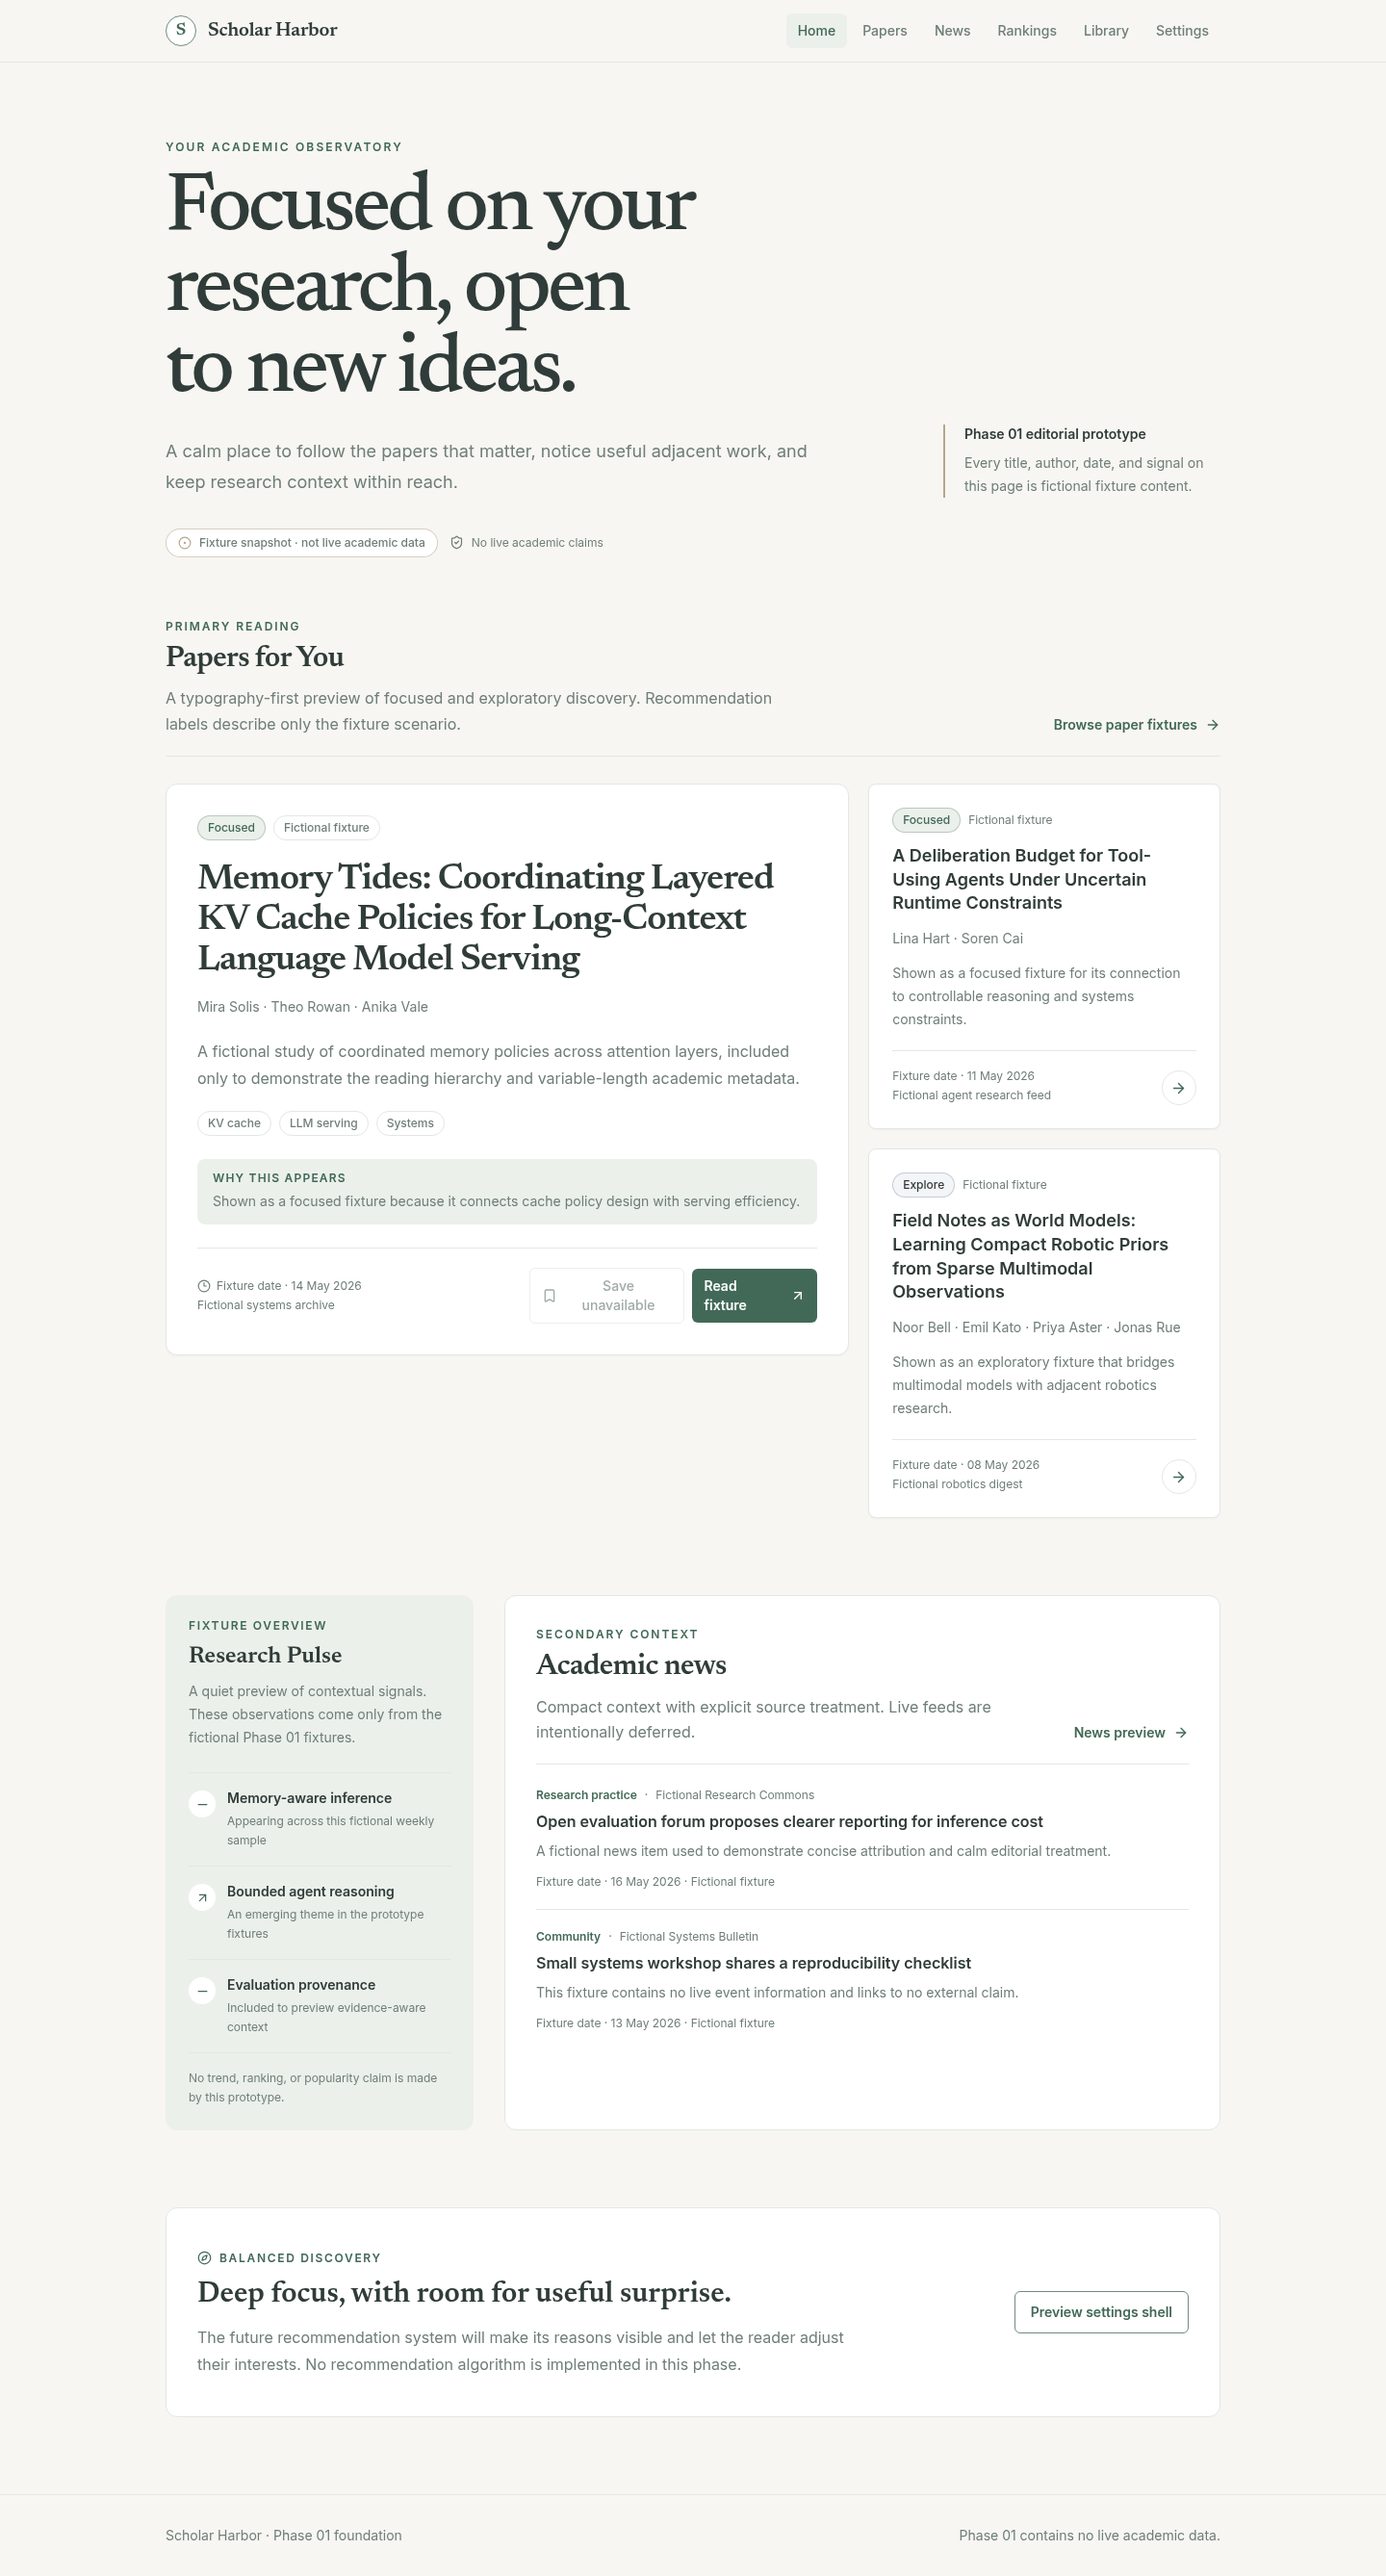
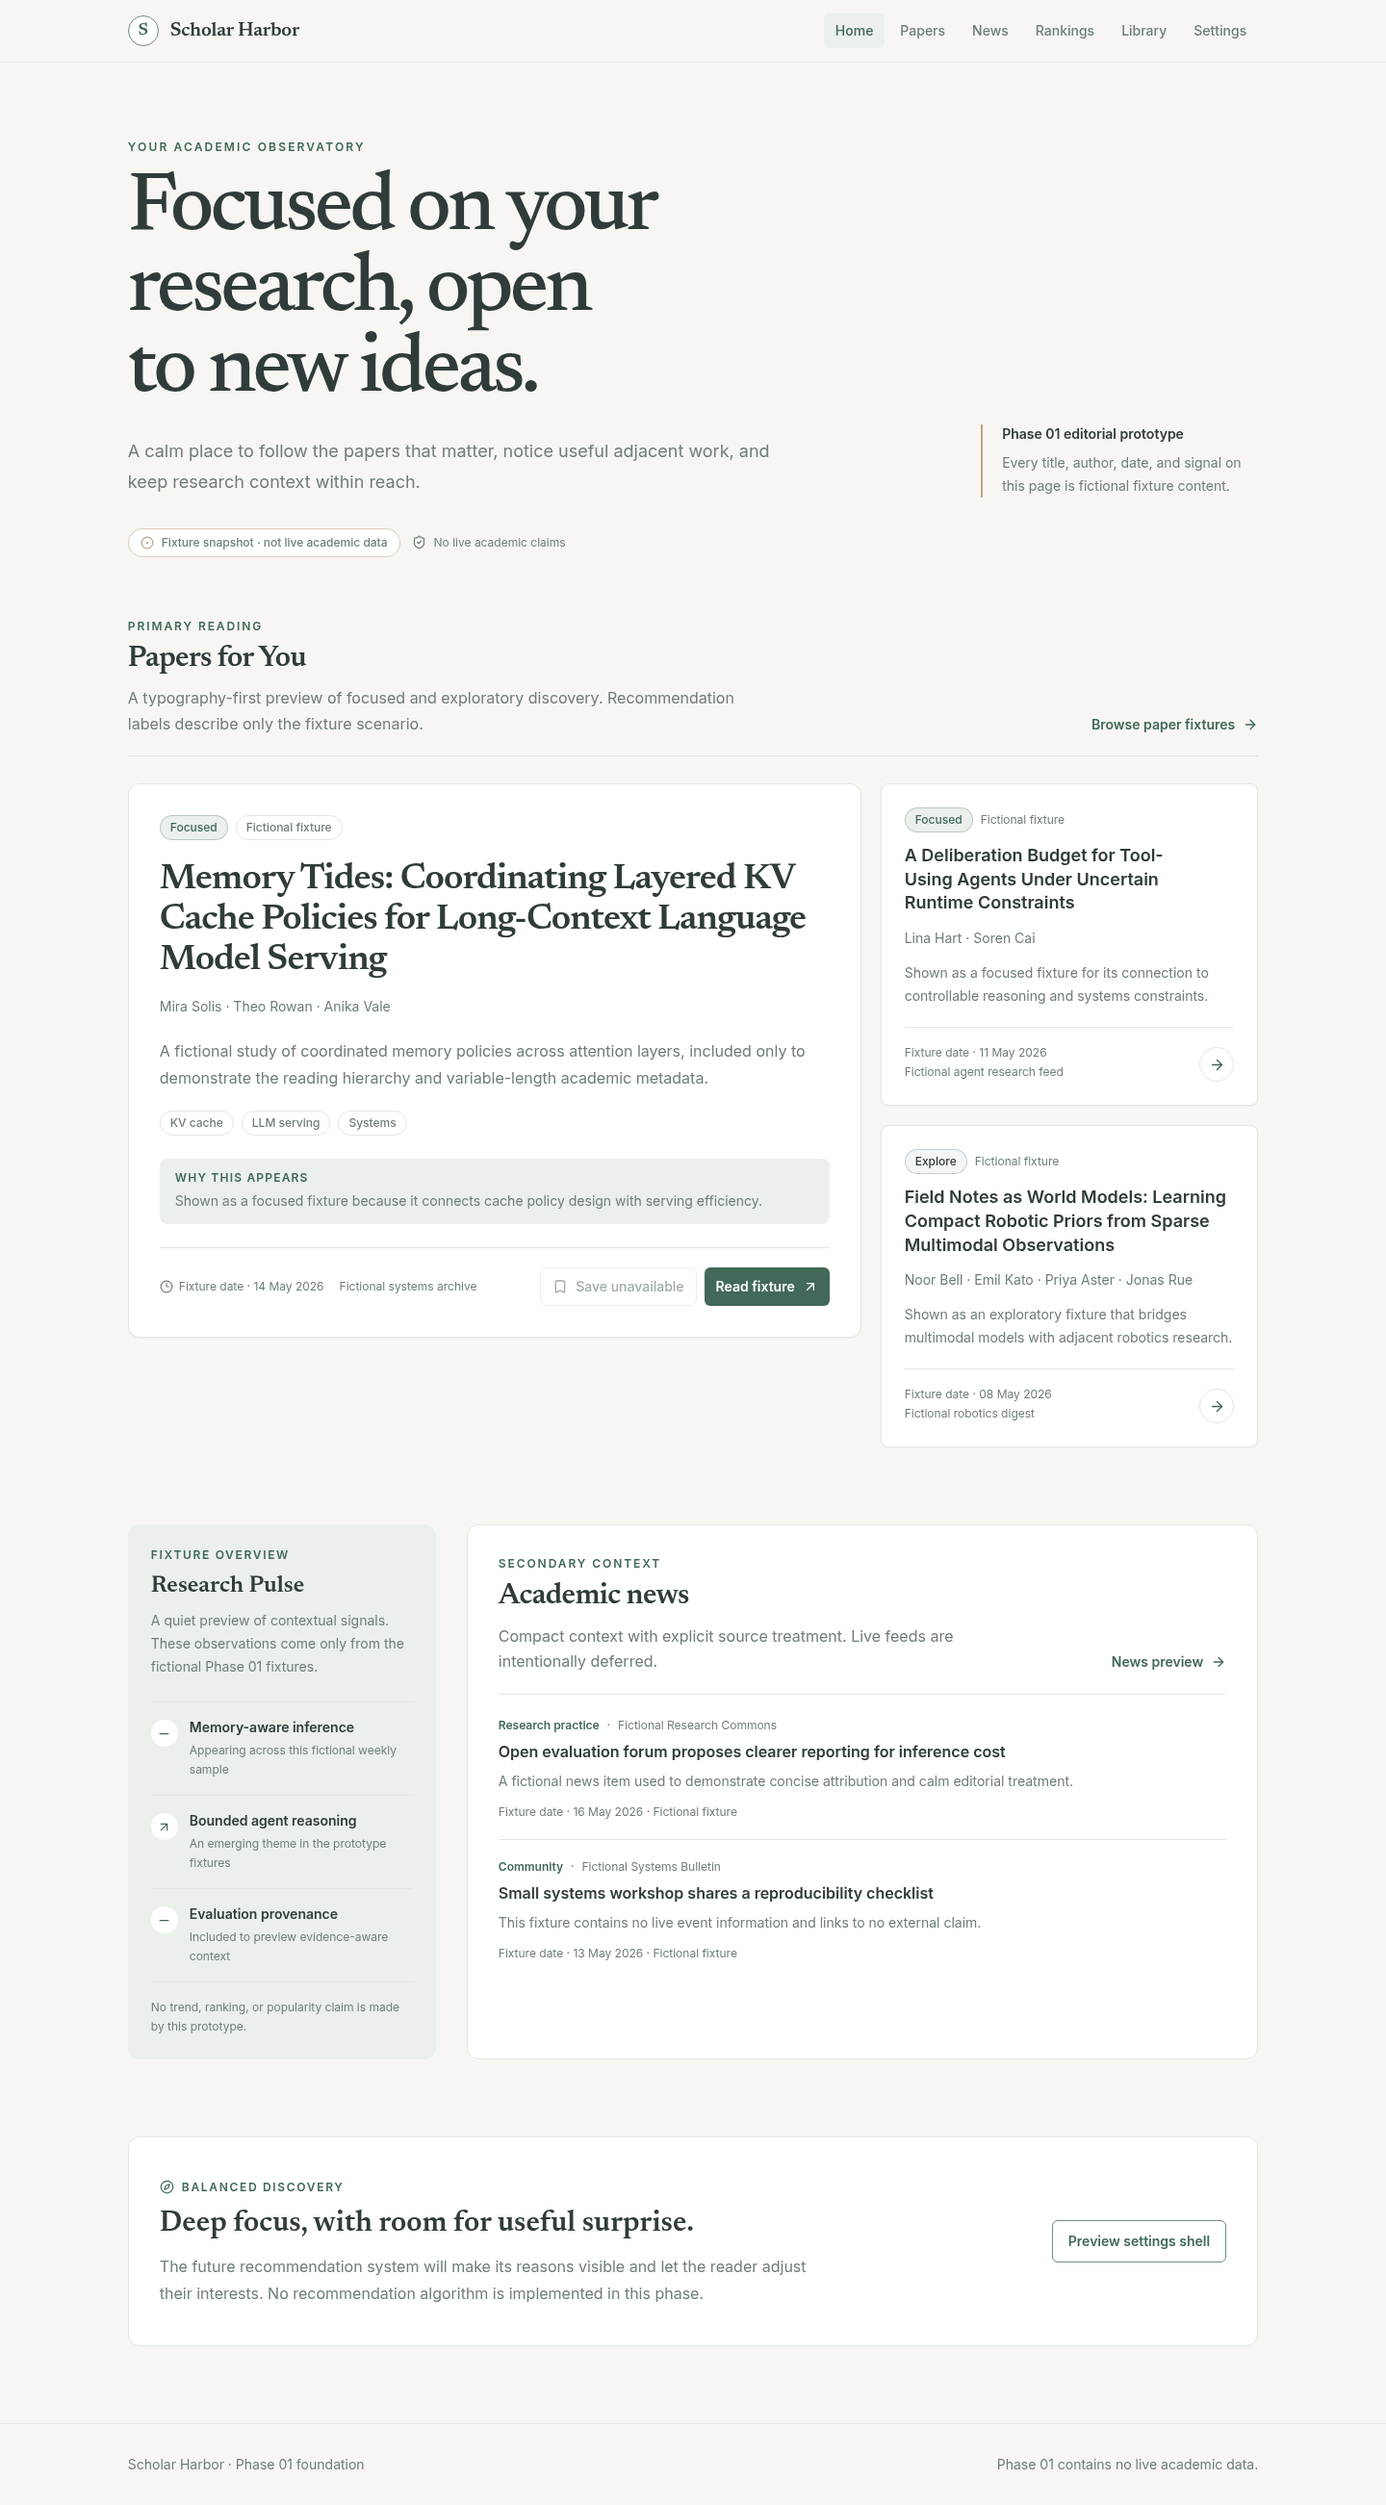
feat: adapt phase 01 layout for ultra-wide displays

diff --git a/e2e/foundation.spec.ts b/e2e/foundation.spec.ts
@@ -5,10 +5,14 @@ const viewports = [
   { name: 'tablet', width: 768, height: 1024 },
   { name: 'desktop', width: 1280, height: 900 },
   { name: 'wide', width: 1440, height: 1000 },
+  { name: 'qhd', width: 2560, height: 1440 },
+  { name: 'qhd-tall', width: 2560, height: 1600 },
 ] as const
 
 for (const viewport of viewports) {
-  test(`homepage is readable at ${viewport.width}px`, async ({ page }) => {
+  test(`homepage is readable at ${viewport.width}×${viewport.height}px`, async ({
+    page,
+  }) => {
     await page.setViewportSize(viewport)
     await page.goto('/')
 
@@ -39,10 +43,35 @@ for (const viewport of viewports) {
     expect(titleBox).not.toBeNull()
     expect(titleBox!.x + titleBox!.width).toBeLessThanOrEqual(viewport.width)
 
-    if (viewport.name === 'mobile' || viewport.name === 'wide') {
+    if (viewport.width >= 2560) {
+      const wideContainer = page.locator('[data-page-container]').nth(1)
+      const containerBox = await wideContainer.boundingBox()
+      expect(containerBox).not.toBeNull()
+      expect(containerBox!.width).toBeGreaterThanOrEqual(2150)
+
+      const compactGridColumns = await page
+        .locator('[data-home-compact-grid]')
+        .evaluate(
+          (element) =>
+            getComputedStyle(element).gridTemplateColumns.split(' ').length,
+        )
+      expect(compactGridColumns).toBe(2)
+    }
+
+    if (
+      viewport.name === 'mobile' ||
+      viewport.name === 'wide' ||
+      viewport.name === 'qhd'
+    ) {
+      const screenshotName =
+        viewport.name === 'mobile'
+          ? 'home-375.png'
+          : viewport.name === 'wide'
+            ? 'home-1440.png'
+            : 'home-2560x1440.png'
       await page.screenshot({
         fullPage: true,
-        path: `artifacts/phase-01/home-${viewport.width}.png`,
+        path: `artifacts/phase-01/${screenshotName}`,
       })
     }
   })
@@ -70,6 +99,11 @@ test('all required routes render in the browser', async ({ page }) => {
 test('keyboard focus and mobile navigation are usable', async ({ page }) => {
   await page.setViewportSize({ width: 375, height: 812 })
   await page.goto('/')
+  await expect(
+    page.getByRole('heading', {
+      name: 'Focused on your research, open to new ideas.',
+    }),
+  ).toBeVisible()
 
   await page.keyboard.press('Tab')
   await expect(

diff --git a/src/pages/HomePage.tsx b/src/pages/HomePage.tsx
@@ -22,8 +22,8 @@ export function HomePage() {
   return (
     <>
       <PageContainer className="pb-12 pt-12 sm:pt-16 lg:pb-16 lg:pt-20">
-        <div className="grid gap-9 lg:grid-cols-[minmax(0,1fr)_18rem] lg:items-end">
-          <div className="min-w-0 max-w-3xl">
+        <div className="home-hero-grid grid gap-9 lg:grid-cols-[minmax(0,1fr)_18rem] lg:items-end">
+          <div className="home-hero-copy min-w-0 max-w-3xl">
             <p className="mb-4 text-xs font-semibold tracking-[0.18em] text-action uppercase">
               Your academic observatory
             </p>
@@ -77,9 +77,12 @@ export function HomePage() {
             titleId="papers-for-you-title"
           />
 
-          <div className="mt-7 grid min-w-0 gap-5 lg:grid-cols-[minmax(0,1.65fr)_minmax(16rem,0.85fr)] lg:items-start">
+          <div className="home-paper-grid mt-7 grid min-w-0 gap-5 lg:grid-cols-[minmax(0,1.65fr)_minmax(16rem,0.85fr)] lg:items-start">
             <FeaturedPaperCard paper={featuredPaper} />
-            <div className="grid min-w-0 gap-5 sm:grid-cols-2 lg:grid-cols-1">
+            <div
+              className="home-compact-grid grid min-w-0 gap-5 sm:grid-cols-2 lg:grid-cols-1"
+              data-home-compact-grid=""
+            >
               {compactPapers.map((paper) => (
                 <CompactPaperCard key={paper.id} paper={paper} />
               ))}
@@ -89,7 +92,7 @@ export function HomePage() {
 
         <section
           aria-label="Research context"
-          className="grid gap-8 lg:grid-cols-[20rem_minmax(0,1fr)]"
+          className="home-context-grid grid gap-8 lg:grid-cols-[20rem_minmax(0,1fr)]"
         >
           <ResearchPulsePanel items={fixturePulse} />
 

diff --git a/src/styles/global.css b/src/styles/global.css
@@ -107,3 +107,29 @@
     animation-iteration-count: 1 !important;
   }
 }
+
+@media (min-width: 120rem) {
+  .page-container {
+    padding-inline: 2.5rem;
+  }
+
+  .home-hero-grid {
+    grid-template-columns: minmax(0, 1.4fr) minmax(20rem, 0.6fr);
+  }
+
+  .home-hero-copy {
+    max-width: 64rem;
+  }
+
+  .home-paper-grid {
+    grid-template-columns: minmax(0, 1.2fr) minmax(0, 1fr);
+  }
+
+  .home-compact-grid {
+    grid-template-columns: repeat(2, minmax(0, 1fr));
+  }
+
+  .home-context-grid {
+    grid-template-columns: 24rem minmax(0, 1fr);
+  }
+}

diff --git a/src/components/layout/PageContainer.tsx b/src/components/layout/PageContainer.tsx
@@ -19,8 +19,9 @@ export function PageContainer<T extends ElementType = 'div'>({
 
   return (
     <Component
+      data-page-container=""
       className={cn(
-        'mx-auto w-full max-w-[1160px] px-5 sm:px-7 lg:px-8',
+        'page-container mx-auto w-full max-w-[clamp(72.5rem,86vw,137.5rem)] px-5 sm:px-7 lg:px-8',
         className,
       )}
       {...props}

diff --git a/docs/TESTING.md b/docs/TESTING.md
@@ -23,29 +23,29 @@ assets and fails when it finds development fixture markers, common credential
 formats, or email-like personal identifiers.
 
 The browser suite starts the development server automatically and checks 375,
-768, 1280, and 1440 px viewports. It covers required routes, long-title bounds,
-unexpected horizontal scrolling, fixture labeling, skip-link focus, and keyboard
-operation of the mobile menu. Screenshots are stored under
+768, 1280, 1440, 2560 × 1440, and 2560 × 1600 px viewports. It covers required
+routes, long-title bounds, unexpected horizontal scrolling, fixture labeling,
+skip-link focus, and keyboard operation of the mobile menu. Screenshots are stored under
 `artifacts/phase-01/`.
 
 ## Phase 01 validation record
 
 Validated on 2026-10-12 in the onboarding environment:
 
-| Check                               | Result                                    |
-| ----------------------------------- | ----------------------------------------- |
-| Frozen install (`npm ci`)           | Passed                                    |
-| Strict TypeScript                   | Passed                                    |
-| ESLint and Prettier                 | Passed                                    |
-| Vitest component/route suite        | 14 passed                                 |
-| Playwright browser suite            | 6 passed                                  |
-| Target viewports                    | 375, 768, 1280, and 1440 px passed        |
-| Vite production build               | Passed                                    |
-| Production build-content scan       | Passed; 5 emitted text assets scanned     |
-| Wrangler packaging dry-run          | Passed; 16 static assets read             |
-| Wrangler local `/`                  | `200 OK`                                  |
-| Wrangler local paper-detail refresh | `200 OK`; SPA fallback behavior confirmed |
-| Production runtime content check    | Passed; no fixture records rendered       |
+| Check                               | Result                                                |
+| ----------------------------------- | ----------------------------------------------------- |
+| Frozen install (`npm ci`)           | Passed                                                |
+| Strict TypeScript                   | Passed                                                |
+| ESLint and Prettier                 | Passed                                                |
+| Vitest component/route suite        | 14 passed                                             |
+| Playwright browser suite            | 8 passed                                              |
+| Target viewports                    | 375, 768, 1280, 1440, 2560×1440, and 2560×1600 passed |
+| Vite production build               | Passed                                                |
+| Production build-content scan       | Passed; 5 emitted text assets scanned                 |
+| Wrangler packaging dry-run          | Passed; 16 static assets read                         |
+| Wrangler local `/`                  | `200 OK`                                              |
+| Wrangler local paper-detail refresh | `200 OK`; SPA fallback behavior confirmed             |
+| Production runtime content check    | Passed; no fixture records rendered                   |
 
 The desktop and mobile screenshots were inspected after the browser suite. They
 showed readable type hierarchy, single-column mobile flow, bounded long titles,

diff --git a/docs/DESIGN_SYSTEM.md b/docs/DESIGN_SYSTEM.md
@@ -46,7 +46,8 @@ supported.
 - Body text: 15–16 px with approximately 1.6–1.7 line height.
 - Paper-card title: 17–19 px.
 - Paper-detail title: 28–34 px on desktop, responsively reduced.
-- Main content width: approximately 1160 px.
+- Adaptive page shell: approximately 1160 px on standard desktops, growing
+  continuously to approximately 2200 px on ultra-wide displays.
 - Long-form reading width: approximately 720–780 px.
 
 Avoid tiny metadata, excessively light weights, long all-caps labels, and clipped

diff --git a/README.md b/README.md
@@ -90,6 +90,7 @@ email-like personal identifiers in `dist`.
 
 - [375 px mobile development prototype](artifacts/phase-01/home-375.png)
 - [1440 px desktop development prototype](artifacts/phase-01/home-1440.png)
+- [2560 × 1440 wide-screen development prototype](artifacts/phase-01/home-2560x1440.png)
 - [1280 px production-safe empty state](artifacts/phase-01/production-safe-home.png)
 
 ## Documentation conventions
